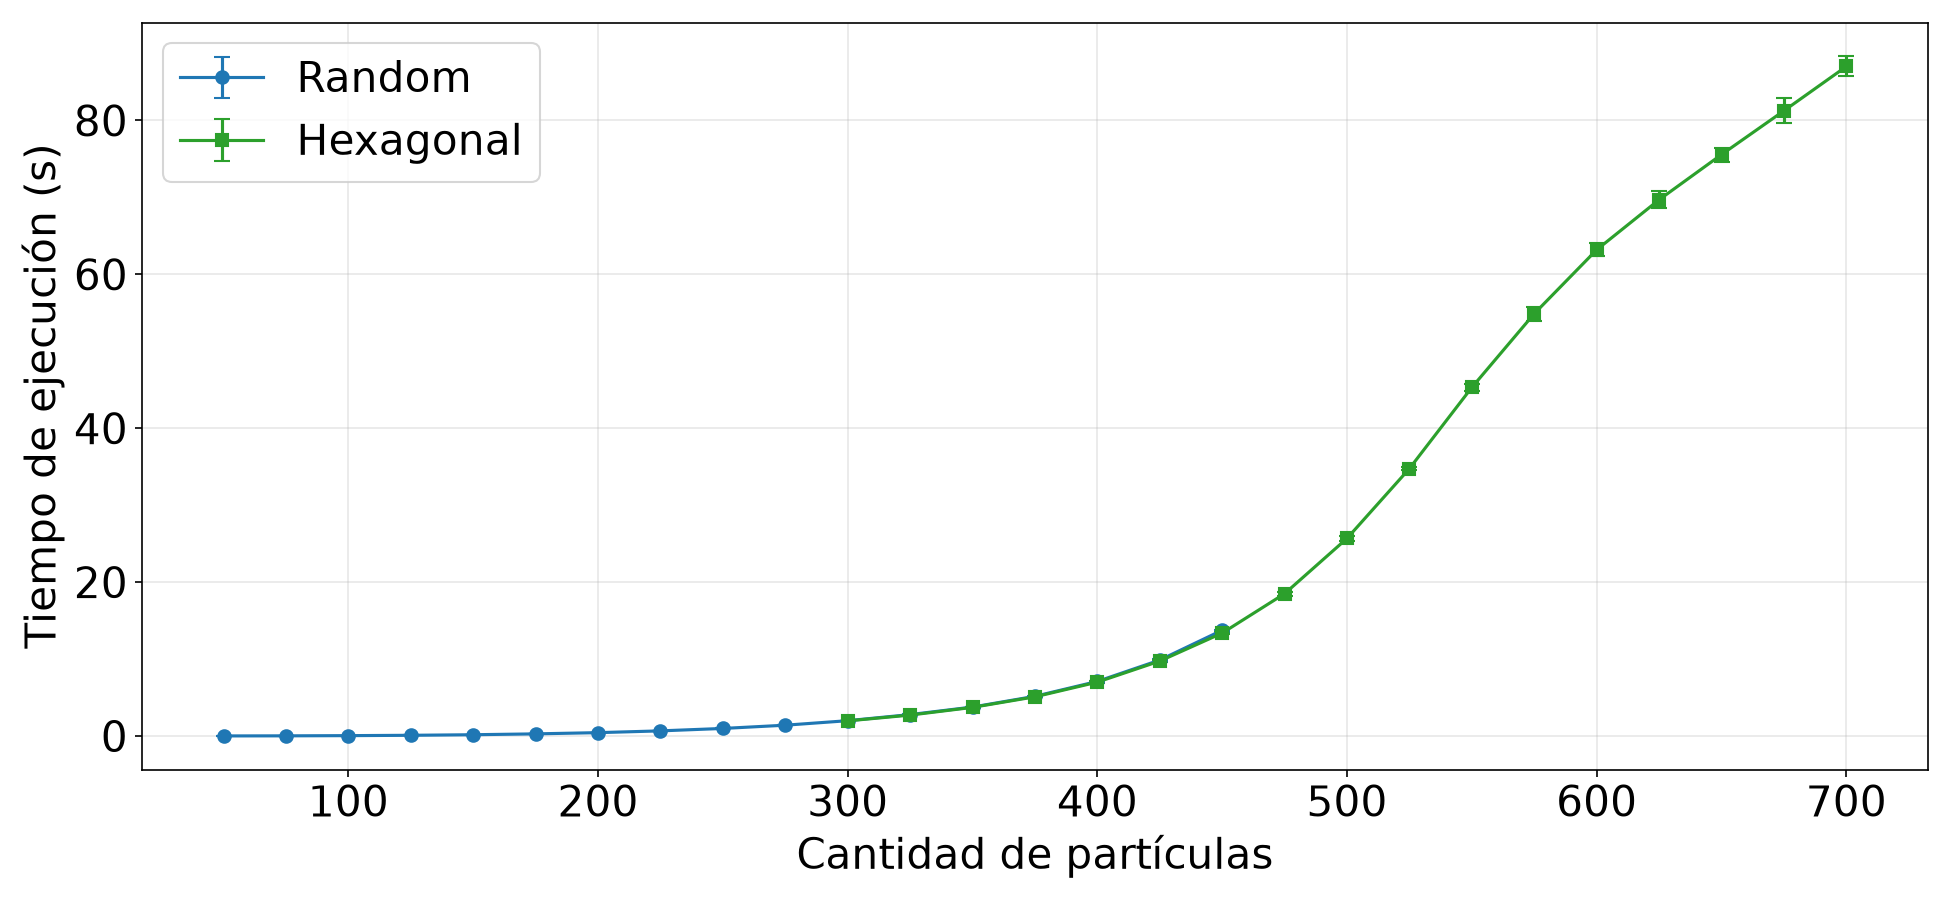
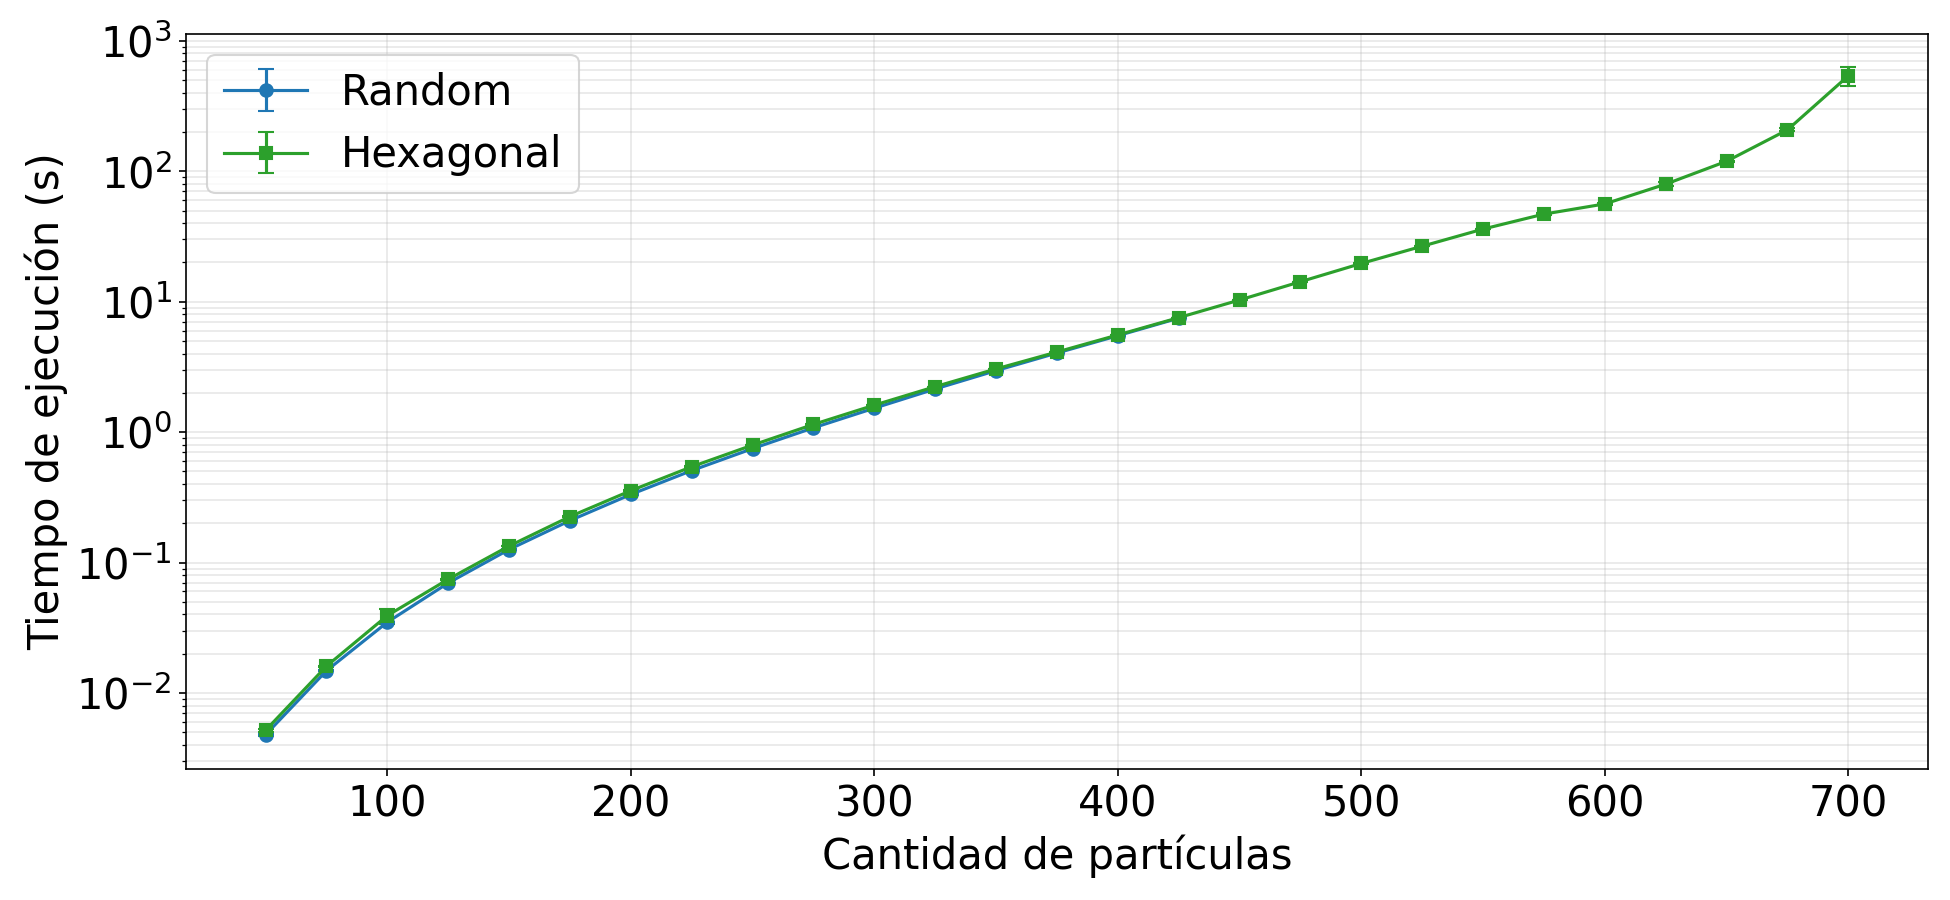
add 1.1 visualizations

diff --git a/python/plot/tiempo_ejecucion_vs_n_combined.py b/python/plot/tiempo_ejecucion_vs_n_combined.py
@@ -3,6 +3,11 @@
     python plot/tiempo_ejecucion_vs_n_combined.py --salida ../entrega/1.1/tiempo_vs_n_combined.png
 
 Compara la escalabilidad del barrido aleatorio (azul) con el hexagonal (verde).
+
+El eje vertical va en escala logaritmica: el tiempo cubre casi cinco ordenes de
+magnitud (de 5 ms en N = 50 a 540 s en N = 700), asi que en escala lineal la
+curva aleatoria queda aplastada contra el cero y no se puede ver que las dos
+colocaciones coinciden en la zona de solape, que es lo que la figura compara.
 """
 
 import argparse
@@ -44,11 +49,14 @@ def main():
         ax.errorbar(agrupado["N"], agrupado["mean"], yerr=agrupado["std"].fillna(0.0),
                     marker=marker, capsize=4, linestyle="-", color=color, label=label)
 
+    # Solo el eje y va en log: el rango de N es poco mas de una decada, asi que
+    # un eje x logaritmico no aporta y ademas deja casi sin rotular el eje.
+    ax.set_yscale("log")
     ax.set_xlabel("Cantidad de part\u00edculas", fontsize=config.FUENTE)
     ax.set_ylabel("Tiempo de ejecuci\u00f3n (s)", fontsize=config.FUENTE)
     ax.tick_params(labelsize=config.FUENTE)
     ax.legend(fontsize=config.FUENTE)
-    ax.grid(alpha=0.3)
+    ax.grid(alpha=0.3, which="both")
     fig.tight_layout()
 
     args.salida.parent.mkdir(parents=True, exist_ok=True)
